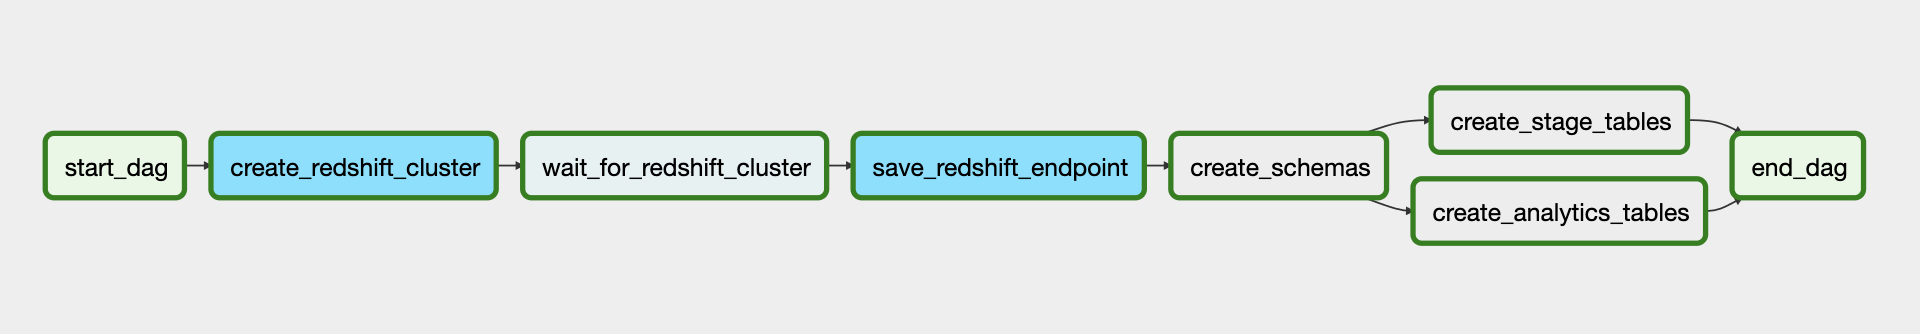
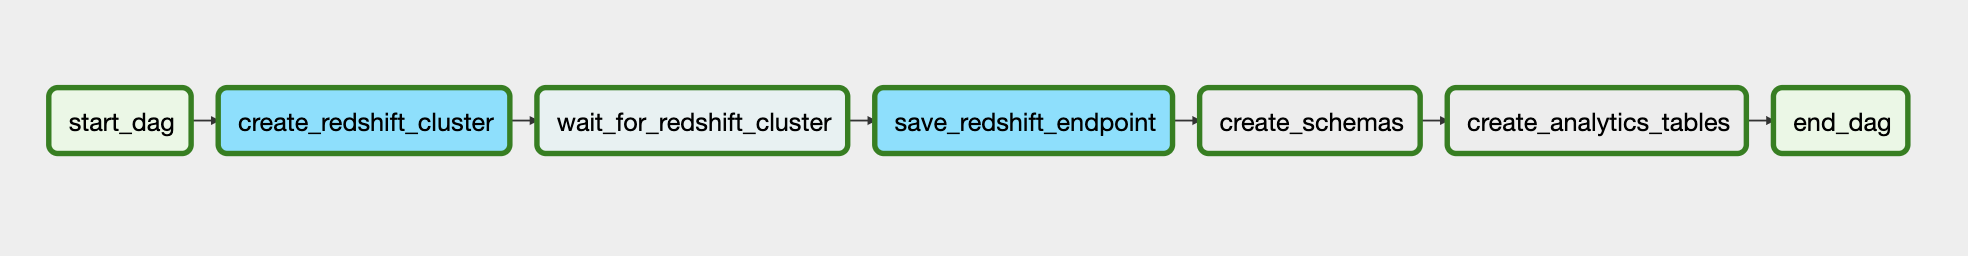
Update README

Changed region(s): [[0.0, 0.25, 0.9688, 0.75]]

diff --git a/README.md b/README.md
@@ -2,12 +2,12 @@
 
 ## Introduction
 
-In the final project of the course my goal is to stich together most of the technologies I learned about in the different modules of the DEND into a coherent data pipeline.
+In the final project of the course my goal is to stich together most of the technologies I learned about in the different modules of the Data Engineering Nanodegree into a coherent data pipeline. The resulting data structure is not extremely complex in itself, instead I tried to focus on creating a realistic ETL workflow using Airflow. In hindsight this needed almost as much work as figuring out the actual data structure.
 
 For the basis of the project I chose the famous __NYC taxi trips__ dataset. This is a well known and widely used data source in data analysis and data science projects. Even if it's not a very novel dataset, from a data engineering perspective it is a great candidate for this project for several reasons:
 
 - It is an extremely large dataset, using big data tools is essential
-- Updated regularily, great for scheduled pipelines
+- Updated regularily (albeit with some latency), great for scheduled pipelines
 - Can be merged with several other datasets, eg. geography, weather, etc.
 
 ## Goal of the Project
@@ -43,7 +43,7 @@ This is a separate data source which adds weather information to the trip data. 
   - I also wanted to create a solution where bulk loads and (simulated) incremental updates can run
 - **Data Warehouse:** Amazon Redshift
   - Star schema (and derived OLAP cubes) assume relational data modelling
-  - Redshift provides distributed, columnar storage, which is necessary for this large amount of data
+  - Redshift provides distributed, columnar storage, which is great boost for large amount of data
 - **Supplementary tools:** PyData ecosystem (eg. Jupyter, pandas, etc.)
 
 ## Data Model
@@ -53,6 +53,31 @@ The final data model is a (small) star schema where the fact table contains trip
 ![ERD](img/erd.png)
 
 This schema is great for **aggregating trip counts, revenues and passenger counts** by **geographic**, **date**, and **weather** dimensions in ad-hoc queries or perodically updated OLAP cubes. I left out columns from the original data sources to streamline the data and focus on these dimensions and use cases.
+
+### Size of Resulting Tables
+
+**Note:** Throughout the project I used _Yellow Taxi Trip Records_ subset of the NYC-TLC data, starting from 2020-01-01 until the last available datapoint at the time of writing this (2020-06-30). The ETL pipeline would work for the larger dataset (including green taxis and/or For-Hire Vehicle data) and wider timewindow (assuming there were no breaking changes in data structure).
+
+With these filtering criteria the ETL pipeline results in these table sizes:
+
+```bash
+
+dev=# select count(*) from analytics.trip;
+  count
+----------
+ 23021983
+
+dev=# select count(*) from analytics.weather;
+ count
+-------
+   213
+
+
+dev=# select count(*) from analytics.zone;
+ count
+-------
+   265
+```
 
 ### Dictionary of final tables
 
@@ -104,22 +129,27 @@ For the sake of practicing these technologies, I created tasks in an Airflow pip
 
 ### 3. ETL
 
-I created a separate DAG for staging, transforming and loading the data when the Redshift cluster is ready.
+- I created a separate DAG for staging, transforming and loading the data when the Redshift cluster is ready.
+- The pipeline in its current form can be run on the first day of each month, which suits the monthly nature of the trip data files.
+
+![ETL DAG](img/etl_dag.png)
 
 #### 3.1 Staging
 
 - Data from the input sources is staged in Redshift tables under `stage` schema:
-  - `staging.trip`: data from the yellow cab trips data source for the current date range
-  - `staging.zone`: taxi zone identification data
-  - `staging.weather`: daily weather data for the current date range for all weather stations
-- Tables are truncated each time the pipeline is run, making sure that no residual data from previous runs spills into the current operation.
-- Staging tasks are set up in a way that they create meaningful results in scheduler DAG runs and ad-hoc (manual) runs:
-  - If DAG is scheduled, import date range is between previous successful run date and current execution date
-  - If DAG is run manually or there is no previous success date the import is run between the preset minimum date and current execution date
+- Tables are freshly created for each DAG execution date in the form of `staging.tablename_YYYY-MM-DD` using Airflow templating, making sure that data from separate DAG runs don't spill into each other.
 
-#### 3.2 Data Cleaning
+#### 3.2 Data Cleaning and Data Quality Checks
 
-[WIP]
+- Weather dataset is filtered for the selected weather station (NYC Central Park) right after data is inserted into staging table.
+- Cleaning taxi trip dataset is filtered for multiple criteria:
+  - Zero distance trips are removed from staging tables right after data is imported from S3, because these are usually either duplicates or seem to be some sort of technical entries.
+  - Trips with `NULL` as vendorID are also removed from staging (these are considered erroneous entries for this projcet, further research might validate them)
+  - Invalid trips are filtered out when inserting data to final tables. Trips are considered invalid if there is another record with the same pickup and dropoff times and locations, but with negative dollar amounts (these are most likely trips that were charged back or canceled for some reason).
+- Zone data is inserted as is, but updated for every run, assuming NYC TLC maintains zone definitions.
+- Data Quality is checked by two criteria, checked for all three data tables after staging finished:
+  - Unwanted `NULL` values for given columns, as set in the custom `CheckNullValuesOperator`
+  - Uniqueness of rows by either the primary key (`analytics.zone` and `analytics.weather`) or a combination of columns (`analytics.trip`), as set in the custom `CheckUniqueValuesOperator`
 
 #### 3.3 Loading to Analytics Tables
 
@@ -141,7 +171,7 @@ I created a separate DAG for staging, transforming and loading the data when the
 
 ## How to Run the Project
 
-The project can be run in Airflow by reading DAGs, plugins and configuration from `./airflow` and `./config`.
+1. The project can be run in Airflow by reading DAGs, plugins and configuration from `./airflow` and `./config`.
 
 ## Files in the Repository
 
@@ -150,7 +180,8 @@ The project can be run in Airflow by reading DAGs, plugins and configuration fro
 ├── README.md
 ├── airflow
 │   ├── dags
-│   │   ├── initial_load_dag.py
+│   │   ├── create_redshift_dag.py
+│   │   ├── etl_dag.py
 │   │   └── sql
 │   │       ├── create_analytics_tables.sql
 │   │       ├── create_stage_tables.sql
@@ -160,6 +191,8 @@ The project can be run in Airflow by reading DAGs, plugins and configuration fro
 │       ├── __init__.py
 │       └── operators
 │           ├── __init__.py
+│           ├── check_null_operator.py
+│           ├── check_unique_operator.py
 │           ├── create_redshift_operator.py
 │           ├── save_redshift_endpoint.py
 │           ├── stage_trip_data.py
@@ -167,8 +200,6 @@ The project can be run in Airflow by reading DAGs, plugins and configuration fro
 │           └── stage_zone.py
 ├── config
 │   └── redshift.cfg
-├── img
-│   └── erd.png
 ├── preprocess_weather_data.py
 └── requirements.txt
 ```
@@ -178,15 +209,29 @@ The project can be run in Airflow by reading DAGs, plugins and configuration fro
 1. **Redshift Setup:** In a real project creating Redshift cluster straight from Airflow wouldn't really make sense, but here this presented a great opportunity to practice Airflow and AWS infrastructure as code in the same exercise.
 2. **Security:** When setting up the infrastructure I mostly used default values and settings. In a real life project it would be crucial to ensure the security of the setup via proper configuration of VPCs, security groups, roles and users (both on AWS and on Redshift database/schema level).
 3. **Data cleaning:** Even though I did some preprocessing and quality checks on the data, I could do more on cleaning and validating the input data. In a real life project this would be crucial. Here my focus was to set up the infrastructure and pipelines, accepting some implied assumptions about the data quality.
-4. **Custom operators:** Custom operators for staging the data look very similar at first sight, even though they differ in some key elements (query structure, S3 key construction, etc.). In a  larger setup it might be worth merging their functionality into a single staging operator and handle the logical differences inside this merged operator. For this project I considered as premature optimization.
+4. **Custom operators:** Custom operators for staging the data look very similar at first sight, even though they differ in some key elements (query structure, S3 key construction, etc.). In a  larger setup it might be worth merging their functionality into a single staging operator and handle the logical differences inside this merged operator. I considered this as premature optimization for this project.
 5. **Deploying pipelines:** I ran Airflow on my laptop which is obviously not a viable solution in a real setup. Properly deploying Airflow in the cloud with the appropriate resources and architecture and making sure that pipelines can run smoothly could be a project in itself.
-6. **OLAP Cube:** The final data lends itself nicely for creating multidimensional OLAP cubes, eg. summing up the total fare amount by date periods (weeks or months), pickup and dropoff locations and probably even weather conditions by categorizing weather variables.
+6. **OLAP Cube:** The final data lends itself nicely for creating multidimensional OLAP cubes, eg. summing up the total fare amount by date periods (weeks or months), pickup and dropoff locations and probably even weather conditions by categorizing numeric weather variables.
 7. **Utilizing Spark:** If were to process the whole NYC TLC dataset including yellow and green taxis and other trips for the whole available date range, we would need substantial resources. This operation would only be feasible if we used a Spark cluster to read data from S3 and crunch it.
 
 ## What If's
 
 ### What if the data was increased by 100x
 
+The ETL pipeline should run fine with 100x amount of data, and based on the usage stats probably the current Redshift cluster would also be able to hold this much data. The execution would be much slower, but as long as the processing remains monthly, this shouldn't be showstopper.
+
+For even larger factors we would need:
+
+- bigger storage on Redshift cluster with more nodes to more efficiently handle the load
+- a larger Airflow setup with more workers for parallel task execution
+- if the monthly files would get extraordinarily large, we would probably need Spark to crunch the numbers (and maybe write results back to S3 instead of holding them in Redshift)
+
 ### What if the pipelines would be run on a daily basis by 7 am every day
 
+Current setup runs monthly, due to the fact that NYC TLC trip data is accessible in montly format (and with a considerable lag in time). Nevertheless the pipeline could run on a daily basis with only small modifications, but this would be quite inefficient as the staging tasks would have to read monthly files during every run and just keep records for a single day. The rest of the pipeline should function the same as currently (zone data is fairly constant, weather data is already in daily format).
+
+If that the trip data was in daily files, the switching from monthly to daily run would literally mean changing a few lines of code (eg. DAG `schedule_interval` and the way manifest files are constructed from `execution_date` in staging tasks).
+
 ### What if the database needed to be accessed by 100+ people
+
+In this case giving access to a "bare" Redshift datawarehouse for all the users wouldn't be enough from neither security, operations nor user experience standpoint. For serving 100+ users I would setup either a curated dashboard (Plotly Dash, Redash or similar) with the results of relevant queries (this needs maintenance) or install a "self-service" BI tool (eg. Tableau, Power BI) in front of the datawarehouse, and let users query data via these channels instead of poking around in the datawarehouse.
